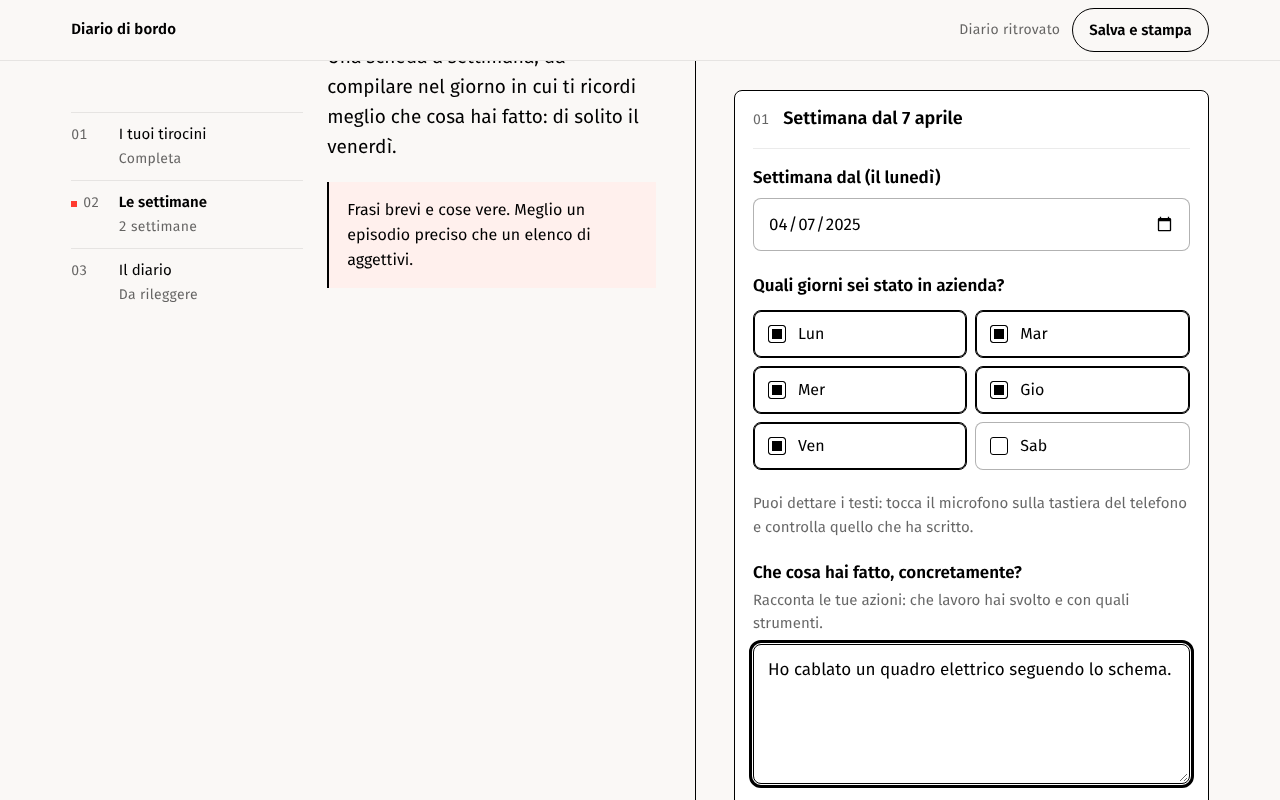
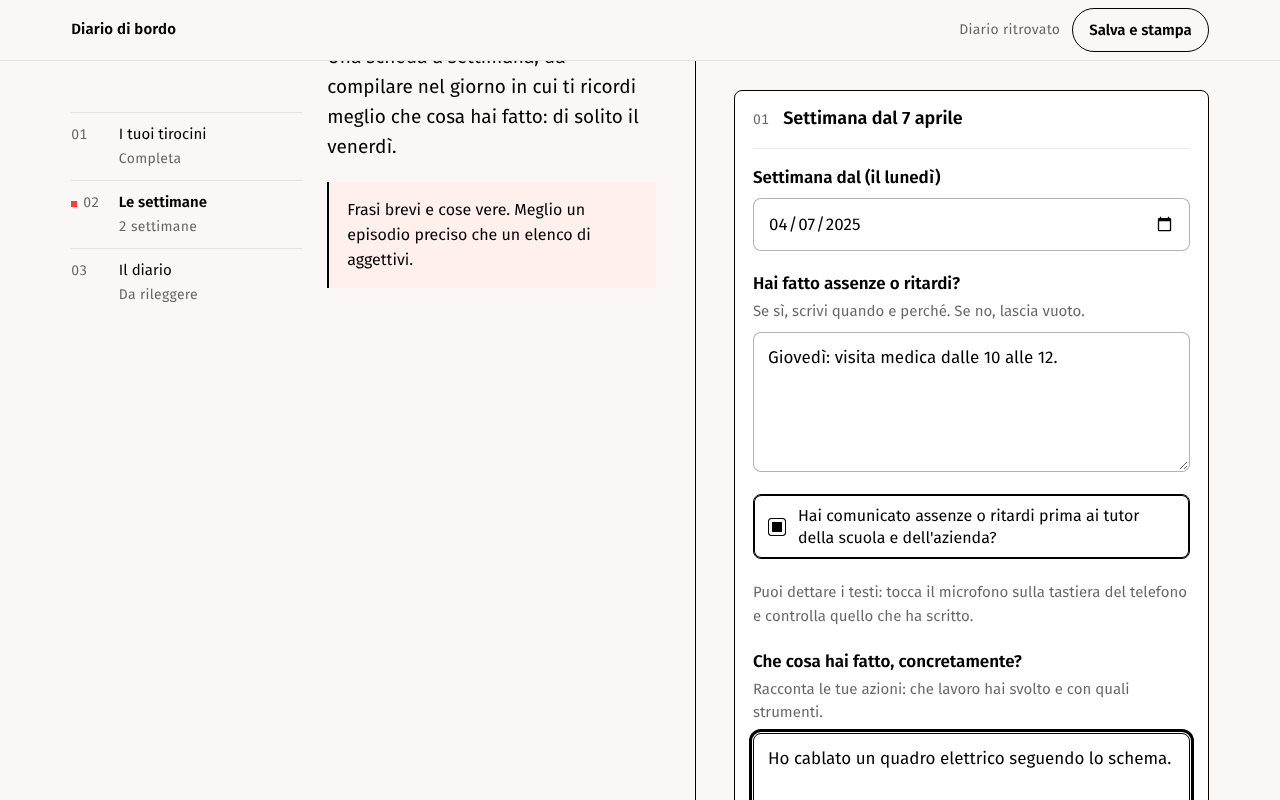
Diario: assenze e ritardi al posto dei giorni in azienda
- "Hai fatto assenze o ritardi?" (testo libero) al posto di "Quali giorni sei stato in azienda?"
- Casella sotto: "Hai comunicato assenze o ritardi prima ai tutor della scuola e dell'azienda?"
- Nel riepilogo compaiono assenze e ritardi con l'indicazione se sono stati comunicati
- Documentazione, guida e screenshot aggiornati; test aggiunti (67 in tutto); script del docente invariato

Claude-Session: https://claude.ai/code/session_01EHWWMiTjFH89chyCGWt5ay

Changed region(s): [[0.5625, 0.5938, 0.9375, 1.0], [0.5938, 0.3438, 0.9375, 0.5938]]

diff --git a/diario/js/app.js b/diario/js/app.js
@@ -174,6 +174,11 @@
           h('span', { text: op.testo }));
       })));
   }
+  function casella(o) {
+    return h('label', { class: 'scelta', for: o.id },
+      h('input', { type: 'checkbox', id: o.id, checked: o.valore, onchange: function (e) { o.aggiorna(e.target.checked); } }),
+      h('span', { text: o.testo }));
+  }
   function aiuto() {
     return h('div', { class: 'aiuto' }, Array.prototype.slice.call(arguments).map(function (t) { return typeof t === 'string' ? h('p', { text: t }) : t; }));
   }
@@ -286,8 +291,9 @@
     };
     return h('div', { class: 'scheda__modulo' },
       campo({ id: p + 'dal', etichetta: 'Settimana dal (il lunedì)', tipo: 'date', valore: w.dal, aggiorna: function (v) { w.dal = v; } }),
-      gruppoScelte({ legenda: 'Quali giorni sei stato in azienda?', nome: p + 'giorni', riga: true, multipla: true, opzioni: D.GIORNI, valore: w.giorni,
-        aggiorna: function (id, attiva) { w.giorni = w.giorni.filter(function (x) { return x !== id; }); if (attiva) w.giorni.push(id); modificato(); } }),
+      t2('assenze', 'Hai fatto assenze o ritardi?', 'Se sì, scrivi quando e perché. Se no, lascia vuoto.'),
+      casella({ id: p + 'comunicato', testo: 'Hai comunicato assenze o ritardi prima ai tutor della scuola e dell\'azienda?', valore: w.comunicato,
+        aggiorna: function (v) { w.comunicato = v; modificato(); } }),
       h('p', { class: 'nota', text: 'Puoi dettare i testi: tocca il microfono sulla tastiera del telefono e controlla quello che ha scritto.' }),
       t2('fatto', 'Che cosa hai fatto, concretamente?', 'Racconta le tue azioni: che lavoro hai svolto e con quali strumenti.'),
       t2('imparato', 'Che cosa hai imparato di nuovo?', 'Una cosa che non sapevi fare o non avevi mai visto.'),
@@ -366,14 +372,14 @@
       t.obiettivi.length ? h('section', { class: 'dossier__parte' }, h('h3', { text: 'Che cosa voglio imparare' }),
         h('ul', { class: 'voci' }, t.obiettivi.map(function (o) { return h('li', { class: 'voce' }, h('blockquote', { text: o })); }))) : null,
       settimane.length ? settimane.map(function (w) {
-        const giorni = D.GIORNI.filter(function (g) { return w.giorni.indexOf(g.id) !== -1; }).map(function (g) { return g.testo; }).join(' ');
         const um = D.UMORI.find(function (u) { return u.id === w.umore; });
         return h('section', { class: 'dossier__parte' },
           h('h3', { text: D.etichettaSettimana(w.dal) }),
-          h('p', { class: 'meta', text: [giorni, um ? um.testo : ''].filter(Boolean).join(' · ') }),
+          h('p', { class: 'meta', text: um ? um.testo : '' }),
           h('ul', { class: 'voci' }, [
             voce('Che cosa ho fatto', w.fatto), voce('Che cosa ho imparato', w.imparato), voce('Che cosa è stato difficile', w.difficolta),
             voce('Chi o che cosa mi ha aiutato', w.aiuto),
+            voce('Assenze o ritardi', pieno(w.assenze) ? w.assenze.trim() + '\n' + (w.comunicato ? 'Comunicati prima ai tutor della scuola e dell\'azienda.' : 'Non comunicati prima ai tutor.') : ''),
             w.obiettivi.length ? voce('Obiettivi su cui ho lavorato', w.obiettivi.join('\n')) : null, voce('Note', w.note)]));
       }) : h('section', { class: 'dossier__parte' }, h('p', { class: 'vuoto', text: 'Ancora nulla: scrivi la prima settimana nella sezione «Le settimane».' })));
   }

diff --git a/diario/js/diario.js b/diario/js/diario.js
@@ -13,11 +13,6 @@
   const MAX_BREVE = 200;
   const MAX_LUNGO = 4000;
 
-  const GIORNI = [
-    { id: 'lun', testo: 'Lun' }, { id: 'mar', testo: 'Mar' }, { id: 'mer', testo: 'Mer' },
-    { id: 'gio', testo: 'Gio' }, { id: 'ven', testo: 'Ven' }, { id: 'sab', testo: 'Sab' }
-  ];
-
   // Come è andata la settimana: poche frasi esplicite, mai una scala numerica o un'emoji.
   const UMORI = [
     { id: 'bene', testo: 'È andata bene' },
@@ -39,7 +34,7 @@
   }
 
   function settimanaVuota(dal) {
-    return { id: nuovoId('s'), dal: dal || '', giorni: [], fatto: '', imparato: '', difficolta: '', aiuto: '', umore: '', obiettivi: [], note: '' };
+    return { id: nuovoId('s'), dal: dal || '', assenze: '', comunicato: false, fatto: '', imparato: '', difficolta: '', aiuto: '', umore: '', obiettivi: [], note: '' };
   }
 
   // Ricostruisce uno stato valido da dati salvati o caricati: scarta chiavi sconosciute e tipi errati.
@@ -67,7 +62,7 @@
         vs[wid] = true;
         n.settimane.push({
           id: wid, dal: dataValida(w.dal),
-          giorni: (Array.isArray(w.giorni) ? w.giorni : []).filter(function (g) { return inElenco(g, GIORNI); }),
+          assenze: testo(w.assenze, MAX_LUNGO), comunicato: w.comunicato === true,
           fatto: testo(w.fatto, MAX_LUNGO), imparato: testo(w.imparato, MAX_LUNGO),
           difficolta: testo(w.difficolta, MAX_LUNGO), aiuto: testo(w.aiuto, MAX_LUNGO),
           umore: inElenco(w.umore, UMORI),
@@ -108,7 +103,7 @@
 
   const DIARIO = {
     CHIAVE: CHIAVE, VERSIONE: VERSIONE, MAX_TIROCINI: MAX_TIROCINI, MAX_SETTIMANE: MAX_SETTIMANE, MAX_OBIETTIVI: MAX_OBIETTIVI,
-    GIORNI: GIORNI, UMORI: UMORI,
+    UMORI: UMORI,
     statoVuoto: statoVuoto, tirocinioVuoto: tirocinioVuoto, settimanaVuota: settimanaVuota, normalizza: normalizza,
     lunedi: lunedi, piuGiorni: piuGiorni, prossimaSettimana: prossimaSettimana, etichettaSettimana: etichettaSettimana,
     completa: completa, pieno: pieno

diff --git a/docs/DIARIO.md b/docs/DIARIO.md
@@ -3,7 +3,7 @@
 Un secondo sito, in `diario/`, con la stessa grafica del bilancio. Lo studente scrive **una scheda a settimana** durante il tirocinio: che cosa ha fatto, che cosa ha imparato, che cosa è stato difficile, chi lo ha aiutato, su quali obiettivi ha lavorato e come è andata la settimana. Gli studenti fanno 8 ore al giorno: **le ore non si chiedono**.
 
 - **Indirizzo:** `…/bilancio-competenze/diario/` (stesso indirizzo del bilancio, percorso diverso). Per gli studenti è un sito a parte: **non ci sono pulsanti** per passare dall'uno all'altro.
-- **Passi:** 01 I tuoi tirocini (azienda, città, periodo, obiettivi), 02 Le settimane (giorni, testi, come è andata), 03 Il diario (riepilogo da stampare o salvare in PDF).
+- **Passi:** 01 I tuoi tirocini (azienda, città, periodo, obiettivi), 02 Le settimane (assenze o ritardi e se sono stati comunicati ai tutor, testi, come è andata), 03 Il diario (riepilogo da stampare o salvare in PDF).
 - **Più tirocini:** fino a 12 (il numero cambia da studente a studente), ognuno con le sue settimane; la settimana proposta è sempre quella dopo l'ultima.
 - **Dettatura:** per ora con il microfono della tastiera del telefono (la scheda lo ricorda); una dettatura dentro l'app, che conservi solo il testo, è una funzione futura che dipende dal backend e dalla privacy.
 - **Salvataggio:** sul dispositivo (`localStorage`, chiave `diario-tirocinio-v1`) più copia `.json` da scaricare e ricaricare. Nessuna richiesta di rete. Il salvataggio nelle cartelle della scuola arriverà con il backend.
@@ -33,7 +33,7 @@ Regole del contratto:
 ```
 { versione: 1, aggiornato, corrente,
   tirocini: [ { id, azienda, citta, dal, al, obiettivi: [testo],
-    settimane: [ { id, dal, giorni: [lun..sab], fatto, imparato, difficolta, aiuto, umore, obiettivi: [testo], note } ] } ] }
+    settimane: [ { id, dal, assenze, comunicato, fatto, imparato, difficolta, aiuto, umore, obiettivi: [testo], note } ] } ] }
 ```
 
 ## Che cosa manca (idee per la prossima fase)

diff --git a/docs/GUIDA.md b/docs/GUIDA.md
@@ -80,7 +80,7 @@ Un sito a parte, con la stessa grafica, a `…/diario/`. Durante il tirocinio lo
 
 ![Il tirocinio](guida/diario-2-tirocinio.png)
 
-**2. La settimana.** Giorni, che cosa ho fatto, che cosa ho imparato, che cosa è stato difficile, chi mi ha aiutato, obiettivi lavorati, come è andata.
+**2. La settimana.** Assenze o ritardi (e se sono stati comunicati ai tutor della scuola e dell'azienda), che cosa ho fatto, che cosa ho imparato, che cosa è stato difficile, chi mi ha aiutato, obiettivi lavorati, come è andata.
 
 ![La settimana](guida/diario-3-settimana.png)
 
